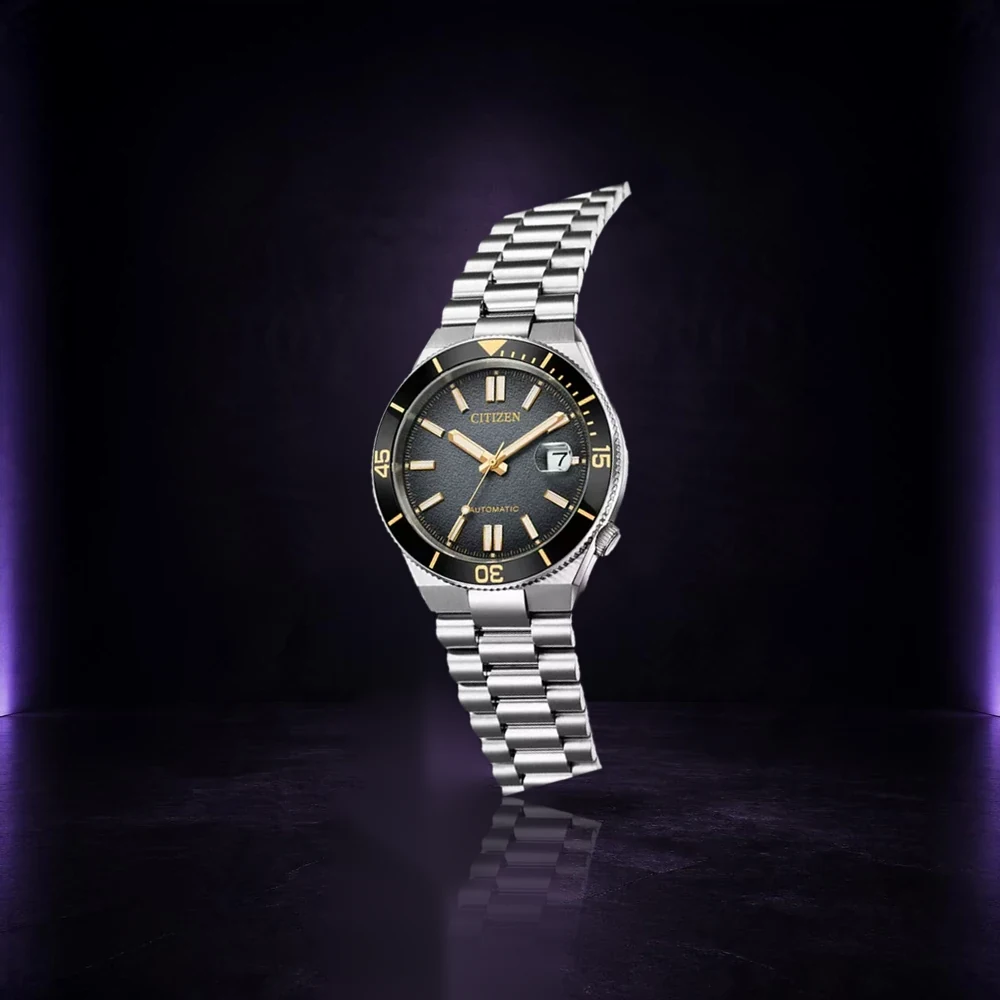
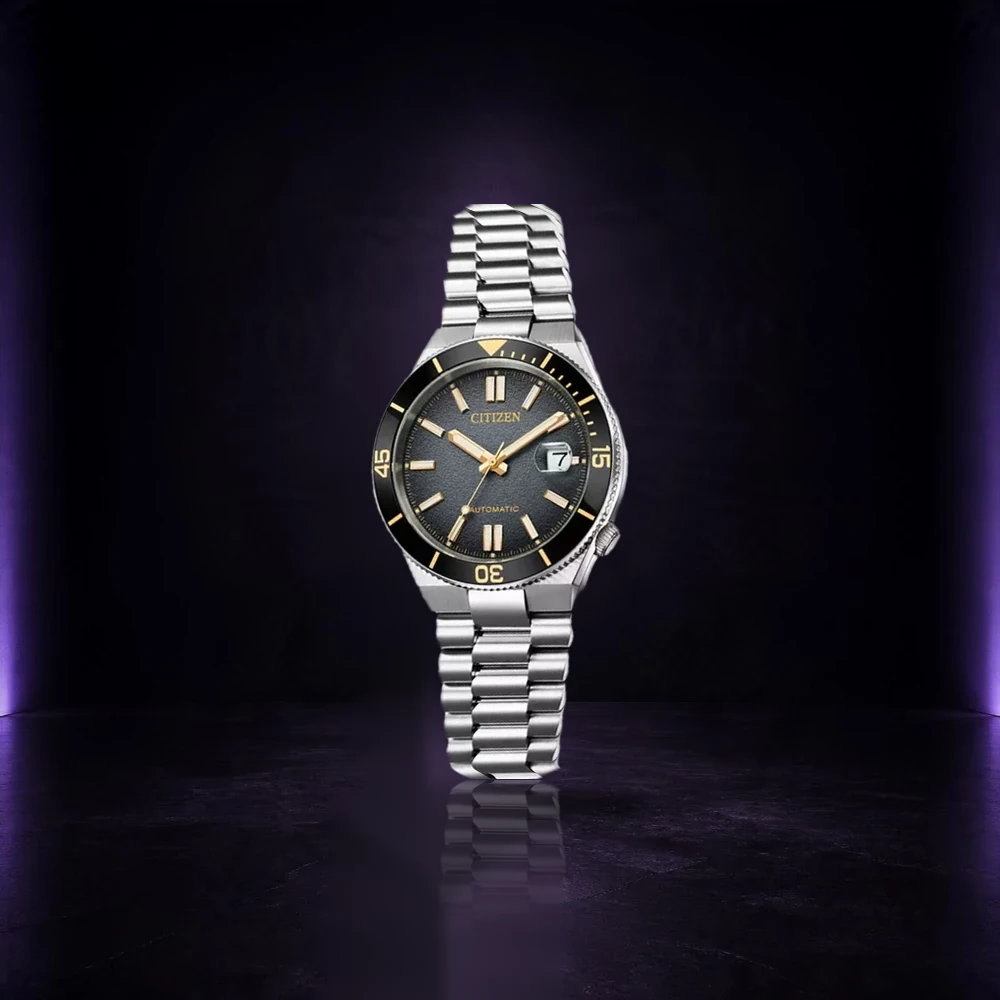
Straighten Citizen main photo bracelet; add second photo to Cartier Santos-Dumont (men-16)
Claude-Session: https://claude.ai/code/session_01H7JDbHqAz1TWm8HZby9oTT

Changed region(s): [[0.434, 0.62, 0.62, 0.868], [0.434, 0.186, 0.651, 0.31]]

diff --git a/data.js b/data.js
@@ -19,8 +19,8 @@ const PRODUCTS = [
     imgs:["images/products/men-7-1.webp?v=20261023","images/products/men-7-2.webp?v=20261023"],
     dHe:"קוטר 40 מ״מ · לוח כחול קרח בגימור סאנריי · תנועה אוטומטית קליבר 8210 · 21 אבנים · עמיד למים 50מ׳ · אחריות יצרן 5 שנים",
     dEn:"40mm case · Sunray-textured ice blue dial · Automatic Caliber 8210 · 21 jewels · 50m water resistant · 5-year manufacturer warranty" },
-  { id:"men-8", sold:true, cat:"men", brand:"Citizen", name:{he:"Citizen Challenge Diver Automatic (שחור/זהב)", en:"Citizen Challenge Diver Automatic (Black/Gold)"}, price:1290, cond:"new", img:"images/products/men-8-1.webp?v=20261115",
-    imgs:["images/products/men-8-1.webp?v=20261115","images/products/men-8-2.webp?v=20261023"],
+  { id:"men-8", sold:true, cat:"men", brand:"Citizen", name:{he:"Citizen Challenge Diver Automatic (שחור/זהב)", en:"Citizen Challenge Diver Automatic (Black/Gold)"}, price:1290, cond:"new", img:"images/products/men-8-1.webp?v=20261115b",
+    imgs:["images/products/men-8-1.webp?v=20261115b","images/products/men-8-2.webp?v=20261023"],
     dHe:"קוטר 41 מ״מ · עובי 13.7 מ״מ · לוניטה חד-כיוונית · זכוכית מינרל · תנועה אוטומטית קליבר 8204-21 · עמיד למים 200מ׳",
     dEn:"41mm case, 13.7mm thick · Unidirectional bezel · Mineral crystal · Automatic Caliber 8204-21 · 200m water resistant" },
   { id:"men-9", sold:true, cat:"men", brand:"Hamilton", name:{he:"Hamilton Khaki Field Auto H70455540 (לוח כחול)", en:"Hamilton Khaki Field Auto H70455540 (Blue Dial)"}, price:2390, cond:"new", img:"images/products/men-9-2.webp?v=20261023",
@@ -56,7 +56,7 @@ const PRODUCTS = [
     dEn:"Pre-owned · New Old Stock, unworn · 1982 · Quartz movement · Moon phase and month display · Swiss Made · Gold-tone case · Brown leather strap" },
 
   { id:"men-16", sold:true, cat:"men", brand:"Cartier", name:{he:"Cartier Santos-Dumont, Large Model", en:"Cartier Santos-Dumont, Large Model"}, price:17000, cond:"used",
-    img:"images/products/men-16-1.webp?v=20261023", imgs:["images/products/men-16-1.webp?v=20261023"],
+    img:"images/products/men-16-1.webp?v=20261023", imgs:["images/products/men-16-1.webp?v=20261023","images/products/men-16-2.webp?v=20261115"],
     dHe:"יד שנייה · דגם Santos-Dumont, מארז Large Model · מארז פלדה מוברשת מרובע עם ברגים גלויים במסגרת, בהשראת השעון שעיצב לואי קרטייה ב-1904 עבור הטייס אלברטו סנטוס-דומון, ונחשב לאחד השעונים הראשונים שנועדו לענידה על פרק היד · לוח כסוף עם ספרות רומיות ומחוגים כחולים · כתר עם אבן ספיר · רצועת עור תנין כחולה",
     dEn:"Pre-owned · Santos-Dumont model, Large Model case · Brushed steel square case with exposed screws on the bezel, inspired by the watch Louis Cartier designed in 1904 for aviator Alberto Santos-Dumont, regarded as one of the first watches made for the wrist · Silver dial with Roman numerals and blue hands · Sapphire-set crown · Blue alligator leather strap" },
 
